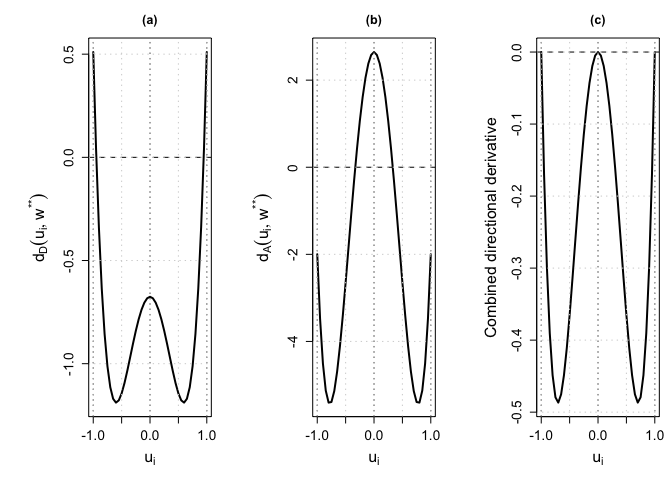
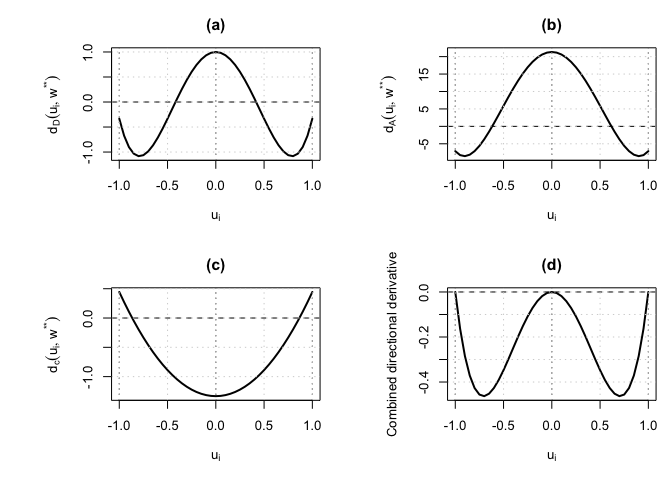
Add - triple objective plot

diff --git a/README.md b/README.md
@@ -454,88 +454,163 @@ cat("All checks passed.\n")
 ### Equivalence theorem
 
 ``` r
+## =========================================================
+## Maximin multi-criterion design: D + A + c
+## =========================================================
+
 quad_reg <- function(x) c(1, x, x^2)
 u <- seq(-1, 1, length.out = 41)
 
-res_D <- compute_design_SO(u, quad_reg, criterion = "D")
-res_A <- compute_design_SO(u, quad_reg, criterion = "A")
+## target contrast for c-optimality
+cvec <- c(0, 1, 0)
 
+## ---------------------------------------------------------
+## Step 1: single-objective reference designs
+## ---------------------------------------------------------
+
+res_D <- compute_design_SO(
+  u = u,
+  f = quad_reg,
+  criterion = "D"
+)
+
+res_A <- compute_design_SO(
+  u = u,
+  f = quad_reg,
+  criterion = "A"
+)
+
+res_c <- compute_design_SO(
+  u = u,
+  f = quad_reg,
+  criterion = "c",
+  opts = list(cVec_c = cvec)
+)
+
+## reference losses
 loss_ref <- list(
   D = res_D$loss,
-  A = res_A$loss
+  A = res_A$loss,
+  c = res_c$loss
 )
 
-res_DA <- compute_maximin_design(
-  u = u,
-  f = quad_reg,
-  loss_ref = loss_ref,
-  criteria = c("D", "A")
-)
-
-dd_DA <- calc_directional_derivatives(
-  u = u,
-  M = res_DA$info_matrix,
-  f = quad_reg,
-  criteria = c("D", "A")
-)
-
-eta_DA <- calc_eta_weights_maximin(
-  tstar = res_DA$tstar,
-  loss_ref = loss_ref,
-  loss_model = res_DA$loss,
-  directional_derivatives = dd_DA,
-  criteria = c("D", "A"),
-  q = length(quad_reg(0))
-)
-
-eta_DA
+print(loss_ref)
 ```
 
-             D          A 
-    0.20059366 0.05124131 
+    $D
+    [1] 1.909543
+
+    $A
+    [1] 8
+
+    $c
+    [1] 1
 
 ``` r
-quad_reg <- function(x) c(1, x, x^2)
-u <- seq(-1, 1, length.out = 41)
+## ---------------------------------------------------------
+## Step 2: maximin design
+## ---------------------------------------------------------
 
-res_D <- compute_design_SO(u, quad_reg, criterion = "D")
-res_A <- compute_design_SO(u, quad_reg, criterion = "A")
-
-loss_ref <- list(
-  D = res_D$loss,
-  A = res_A$loss
-)
-
-res_DA <- compute_maximin_design(
+res_DAc <- compute_maximin_design(
   u = u,
   f = quad_reg,
   loss_ref = loss_ref,
-  criteria = c("D", "A")
+  criteria = c("D", "A", "c"),
+  opts = list(cVec_c = cvec)
 )
 
-dd_DA <- calc_directional_derivatives(
+print(res_DAc$design)
+```
+
+    # A tibble: 3 × 2
+      point weight
+      <dbl>  <dbl>
+    1    -1  0.375
+    2     0  0.250
+    3     1  0.375
+
+``` r
+print(res_DAc$loss)
+```
+
+    $D
+    [1] 1.961659
+
+    $A
+    [1] 10.66667
+
+    $c
+    [1] 1.333333
+
+``` r
+print(res_DAc$efficiency)
+```
+
+            D         A         c 
+    0.9827780 0.7499999 0.7500000 
+
+``` r
+cat("tstar =", res_DAc$tstar, "\n")
+```
+
+    tstar = 1.333333 
+
+``` r
+cat("1 / tstar =", 1 / res_DAc$tstar, "\n")
+```
+
+    1 / tstar = 0.75 
+
+``` r
+cat("min efficiency =", min(res_DAc$efficiency), "\n")
+```
+
+    min efficiency = 0.7499999 
+
+``` r
+## ---------------------------------------------------------
+## Step 3: directional derivatives
+## ---------------------------------------------------------
+
+dd_DAc <- calc_directional_derivatives(
   u = u,
-  M = res_DA$info_matrix,
+  M = res_DAc$info_matrix,
   f = quad_reg,
-  criteria = c("D", "A")
+  criteria = c("D", "A", "c"),
+  cVec = cvec
 )
 
-eta_DA <- calc_eta_weights_maximin(
-  tstar = res_DA$tstar,
+## ---------------------------------------------------------
+## Step 4: eta weights for maximin equivalence theorem
+## ---------------------------------------------------------
+
+eta_DAc <- calc_eta_weights_maximin(
+  tstar = res_DAc$tstar,
   loss_ref = loss_ref,
-  loss_model = res_DA$loss,
-  directional_derivatives = dd_DA,
-  criteria = c("D", "A"),
+  loss_model = res_DAc$loss,
+  directional_derivatives = dd_DAc,
+  criteria = c("D", "A", "c"),
   q = length(quad_reg(0))
 )
 
-eq_DA <- check_equivalence_maximin(
-  design_obj = res_DA,
-  directional_derivatives = dd_DA,
-  eta = eta_DA
+print(eta_DAc)
+```
+
+               D            A            c 
+    1.231246e-06 4.166653e-02 6.666650e-01 
+
+``` r
+## ---------------------------------------------------------
+## Step 5: equivalence theorem check
+## ---------------------------------------------------------
+
+eq_DAc <- check_equivalence_maximin(
+  design_obj = res_DAc,
+  directional_derivatives = dd_DAc,
+  eta = eta_DAc
 )
 
-print(eq_DA)
+print(eq_DAc)
 ```
 
     $candidate_points
@@ -548,28 +623,28 @@ print(eq_DA)
     [1] -1  0  1
 
     $eta
-             D          A 
-    0.20059366 0.05124131 
+               D            A            c 
+    1.231246e-06 4.166653e-02 6.666650e-01 
 
     $combined_directional_derivative
-     [1] -7.551101e-07 -1.713982e-01 -2.997728e-01 -3.905297e-01 -4.487821e-01
-     [6] -4.793509e-01 -4.867647e-01 -4.752602e-01 -4.487816e-01 -4.109813e-01
-    [11] -3.652192e-01 -3.145631e-01 -2.617888e-01 -2.093797e-01 -1.595271e-01
-    [16] -1.141303e-01 -7.479607e-02 -4.283931e-02 -1.928262e-02 -4.856427e-03
-    [21]  9.999463e-07 -4.856427e-03 -1.928262e-02 -4.283931e-02 -7.479607e-02
-    [26] -1.141303e-01 -1.595271e-01 -2.093797e-01 -2.617888e-01 -3.145631e-01
-    [31] -3.652192e-01 -4.109813e-01 -4.487816e-01 -4.752602e-01 -4.867647e-01
-    [36] -4.793509e-01 -4.487821e-01 -3.905297e-01 -2.997728e-01 -1.713982e-01
-    [41] -7.551086e-07
+     [1] -3.329950e-07 -1.629517e-01 -2.850002e-01 -3.712849e-01 -4.266667e-01
+     [6] -4.557292e-01 -4.627777e-01 -4.518401e-01 -4.266664e-01 -3.907288e-01
+    [11] -3.472217e-01 -2.990619e-01 -2.488882e-01 -1.990618e-01 -1.516659e-01
+    [16] -1.085061e-01 -7.111020e-02 -4.072822e-02 -1.833236e-02 -4.617062e-03
+    [21]  9.989852e-07 -4.617062e-03 -1.833236e-02 -4.072822e-02 -7.111020e-02
+    [26] -1.085061e-01 -1.516659e-01 -1.990618e-01 -2.488882e-01 -2.990619e-01
+    [31] -3.472217e-01 -3.907288e-01 -4.266664e-01 -4.518401e-01 -4.627777e-01
+    [36] -4.557292e-01 -4.266667e-01 -3.712849e-01 -2.850002e-01 -1.629517e-01
+    [41] -3.329950e-07
 
     $support_values
-    [1] -7.551101e-07  9.999463e-07 -7.551086e-07
+    [1] -3.329950e-07  9.989852e-07 -3.329950e-07
 
     $max_violation
-    [1] 9.999463e-07
+    [1] 9.989852e-07
 
     $min_value
-    [1] -0.4867647
+    [1] -0.4627777
 
     $all_nonpositive
     [1] TRUE
@@ -584,12 +659,15 @@ print(eq_DA)
     [1] "cvx_equivalence_maximin"
 
 ``` r
-par(cex.lab = 1.5, cex.axis = 1.3, cex.main = 1.2)
+## ---------------------------------------------------------
+## Step 6: plot
+## ---------------------------------------------------------
+
 plot_equivalence_maximin(
-  design_obj = res_DA,
-  directional_derivatives = dd_DA,
-  eta = eta_DA,
-  criteria = c("D", "A"),
+  design_obj = res_DAc,
+  directional_derivatives = dd_DAc,
+  eta = eta_DAc,
+  criteria = c("D", "A", "c"),
   cex_lab = 1.5,
   cex_axis = 1.3,
   cex_main = 1.2,
